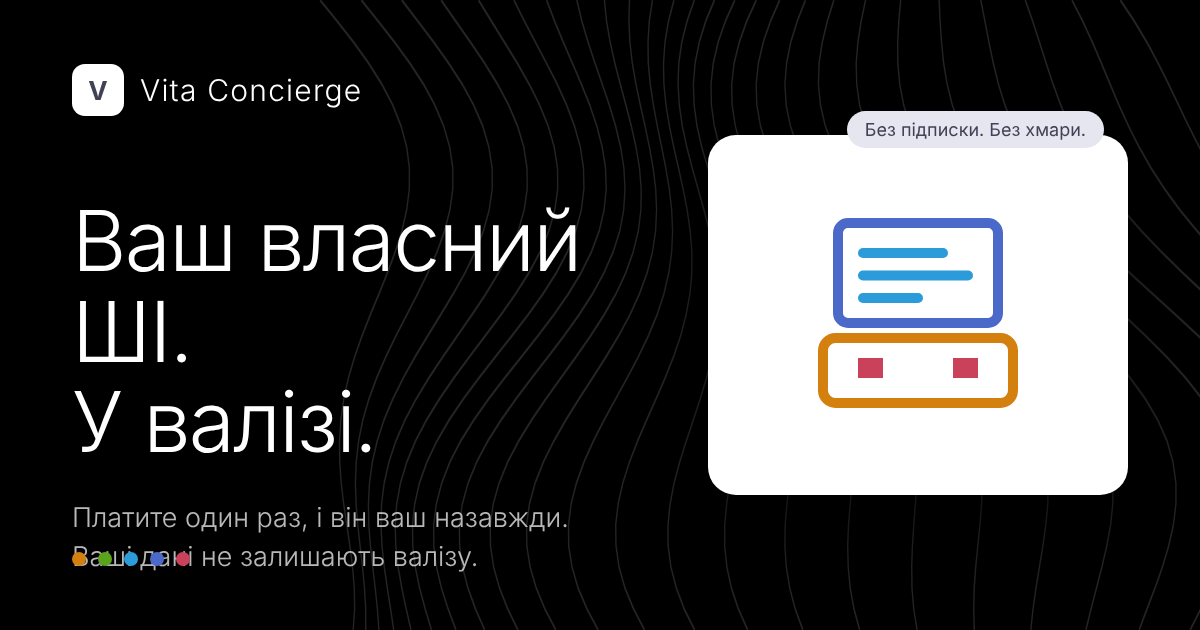
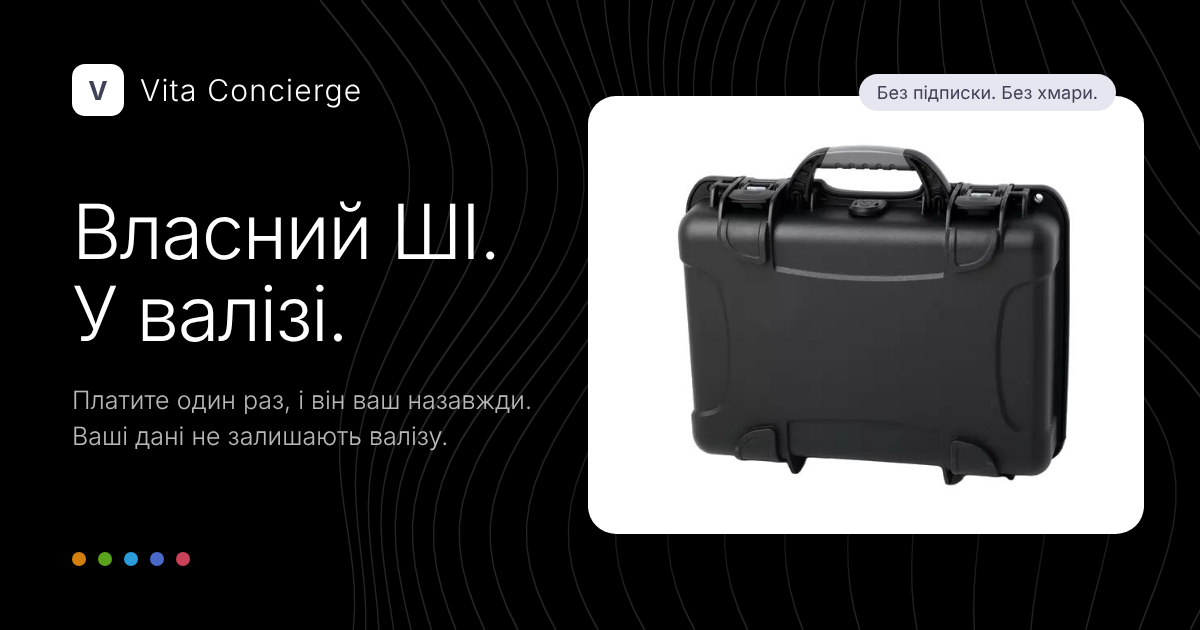
M4: share cards show the case
- build/og/card.html: white card 556 × 438 with the case photo (528 px wide)
  instead of the drawn icon; copy 520 px wide at top 190; h1 76 px; sub 25 px;
  chip moved to the card's corner.
- Re-rendered og-de/en/uk.png (1200 × 630, 142–145 KB) with Inter including
  Cyrillic. Text from i18n: new EN sub and UA headline.

Claude-Session: https://claude.ai/code/session_01JfE4PFtwWXnf7pAscExXVj

diff --git a/build/og/card.html b/build/og/card.html
@@ -14,12 +14,12 @@
   .lines { position: absolute; inset: 0; width: 100%; height: 100%; }
   .brand { position: absolute; left: 72px; top: 64px; display: flex; align-items: center; gap: 16px; font-size: 30px; letter-spacing: .04em; }
   .tile { width: 52px; height: 52px; border-radius: 13px; background: #fff; color: #424257; display: flex; align-items: center; justify-content: center; font-weight: 700; font-size: 26px; letter-spacing: 0; }
-  .copy { position: absolute; left: 72px; top: 196px; width: 600px; }
-  h1 { font-weight: 300; font-size: 84px; line-height: 1.08; letter-spacing: -.02em; }
-  .sub { margin-top: 30px; font-size: 27px; line-height: 1.45; color: rgba(255,255,255,.72); }
-  .card { position: absolute; right: 72px; top: 135px; width: 420px; height: 360px; border-radius: 28px; background: #fff; display: flex; align-items: center; justify-content: center; box-shadow: 0 30px 80px rgba(0,0,0,.55); }
-  .card svg { width: 300px; height: auto; }
-  .chip { position: absolute; right: 96px; top: 111px; background: #e6e6f0; color: #424257; font-size: 18px; font-weight: 400; padding: 8px 18px; border-radius: 20px; }
+  .copy { position: absolute; left: 72px; top: 190px; width: 520px; }
+  h1 { font-weight: 300; font-size: 76px; line-height: 1.08; letter-spacing: -.02em; }
+  .sub { margin-top: 28px; font-size: 25px; line-height: 1.45; color: rgba(255,255,255,.72); }
+  .card { position: absolute; right: 56px; top: 96px; width: 556px; height: 438px; overflow: hidden; border-radius: 28px; background: #fff; display: flex; align-items: center; justify-content: center; box-shadow: 0 30px 80px rgba(0,0,0,.55); }
+  .card img { display: block; width: 528px; height: auto; }
+  .chip { position: absolute; right: 84px; top: 74px; background: #e6e6f0; color: #424257; font-size: 18px; font-weight: 400; padding: 8px 18px; border-radius: 20px; }
   .dots { position: absolute; left: 72px; bottom: 64px; display: flex; gap: 12px; }
   .dots span { width: 14px; height: 14px; border-radius: 50%; }
 </style>
@@ -32,12 +32,7 @@
     <p class="sub">{{ sub }}</p>
   </div>
   <div class="card">
-    <svg viewBox="0 0 120 90" fill="none" stroke-width="4" stroke-linecap="round" stroke-linejoin="round" aria-hidden="true">
-      <rect x="28" y="8" width="64" height="40" rx="4" stroke="#4a69c9" />
-      <line x1="38" y1="20" x2="70" y2="20" stroke="#2b9bd9" /><line x1="38" y1="29" x2="80" y2="29" stroke="#2b9bd9" /><line x1="38" y1="38" x2="60" y2="38" stroke="#2b9bd9" />
-      <rect x="22" y="54" width="76" height="26" rx="5" stroke="#d4800f" />
-      <rect x="36" y="62" width="10" height="8" fill="#c9425a" stroke="none" /><rect x="74" y="62" width="10" height="8" fill="#c9425a" stroke="none" />
-    </svg>
+    <img src="../../assets/img/nanuk-910.jpg" alt="" />
   </div>
   <p class="chip">{{ chip }}</p>
   <div class="dots"><span style="background:#d4800f"></span><span style="background:#5aa31c"></span><span style="background:#2b9bd9"></span><span style="background:#4a69c9"></span><span style="background:#c9425a"></span></div>
